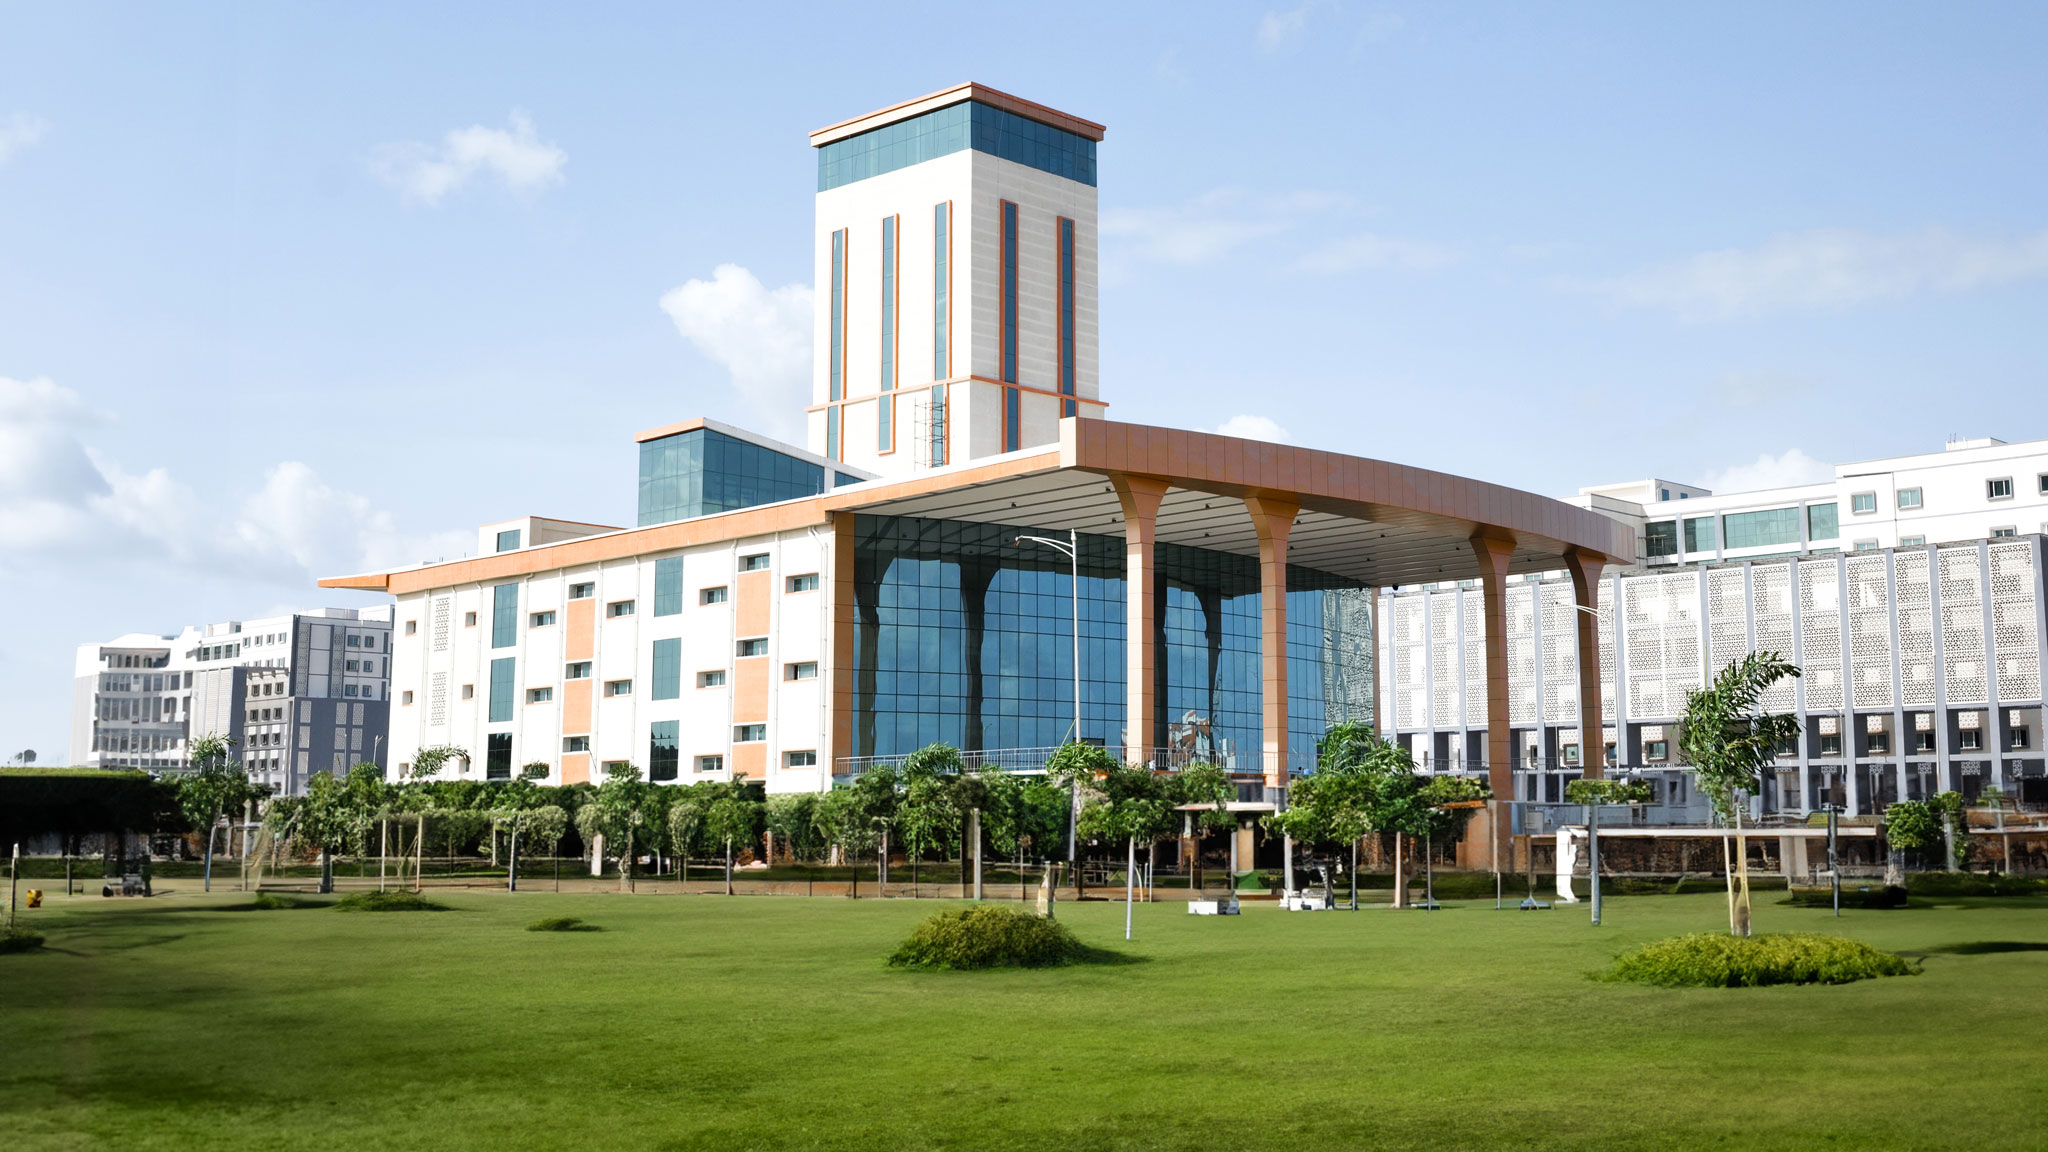
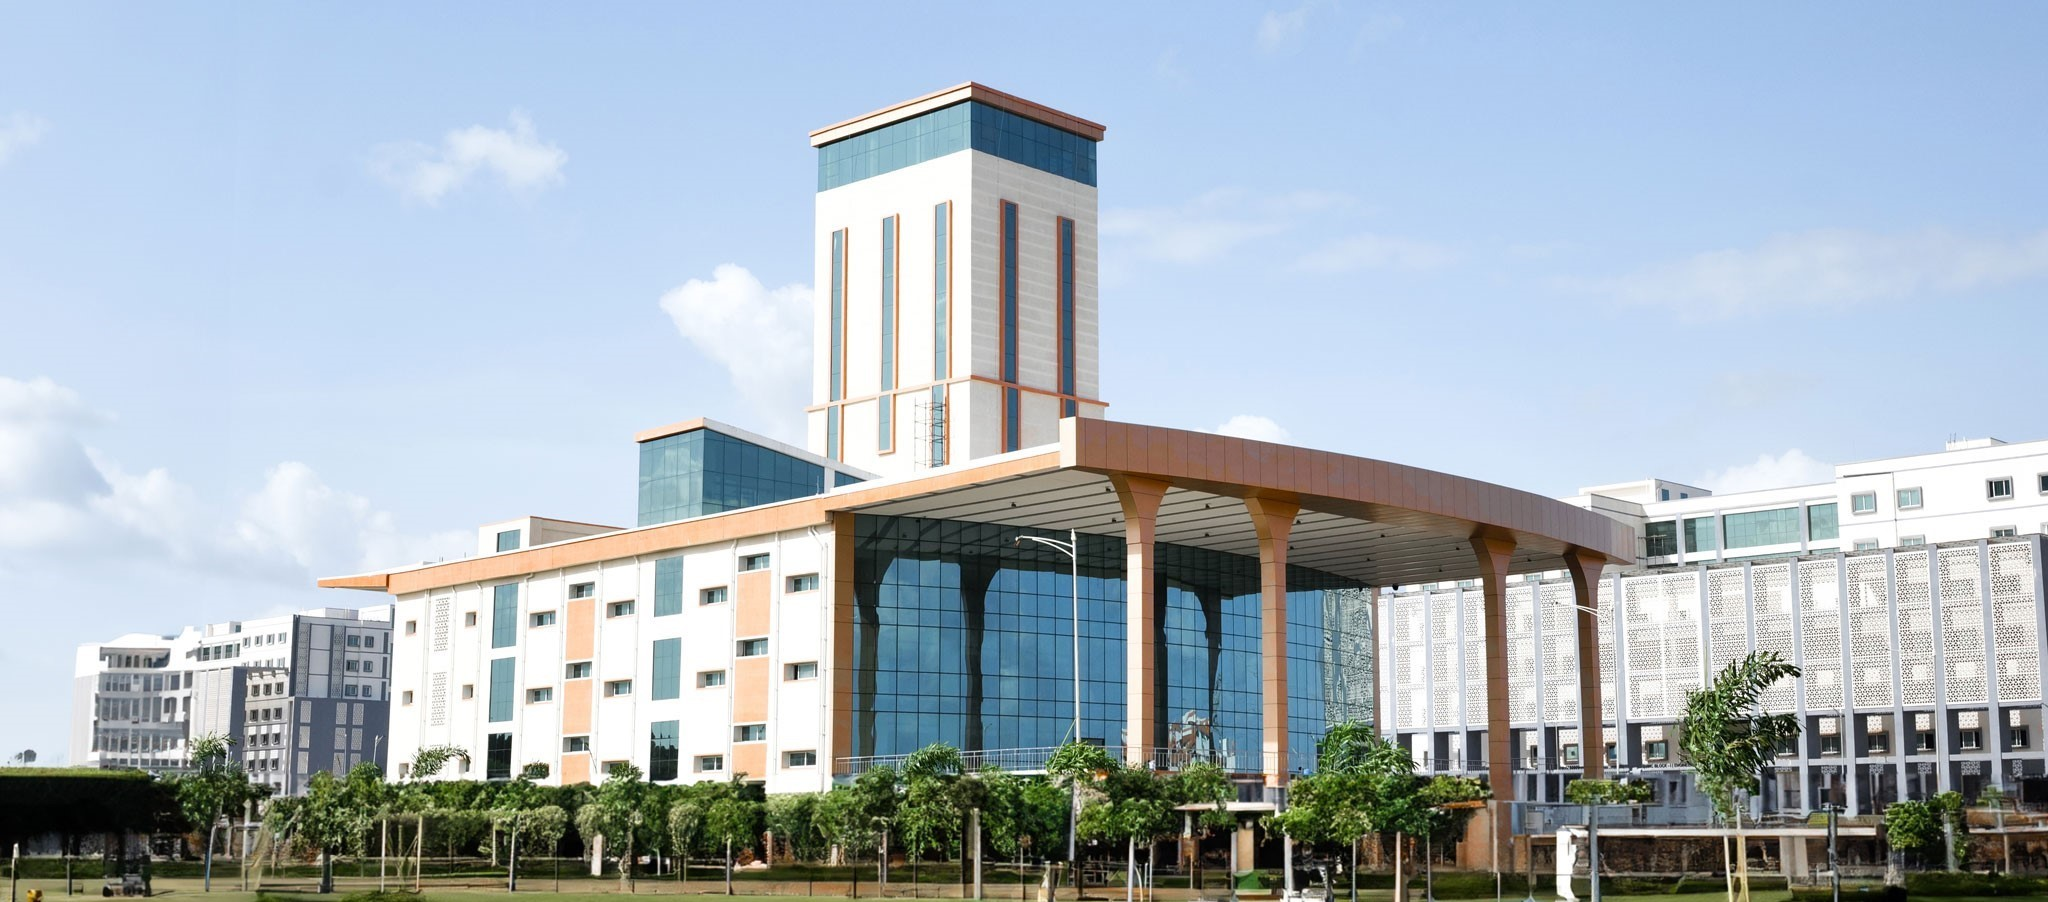
Beautified Carousel and changed Login background

diff --git a/frontend/src/Styles/ImgSlide.css b/frontend/src/Styles/ImgSlide.css
@@ -1,10 +1,13 @@
+.carousel-item {
+  height: 100vh; /* Adjust the height as needed */
+  overflow: hidden; /* Ensure content outside the fixed height is hidden */
+}
+
 .carousel-item img {
-  width: 100vw; 
-  height: 80vh; 
-  margin-top: 60px;
-  /* border-left:2vh solid rgb(107, 34, 155); */
-  /* border-right:2vh solid rgb(107, 34, 155); */
-  /* border:1vh solid rgb(122, 19, 163); */
+  width: 100%;
+  height: 100%;
+  object-fit: cover;
+  object-position: center;
 }
 .carousel-caption{
   background-color: rgba(73, 71, 71, 0.3);

diff --git a/frontend/src/Styles/StudentLogin.css b/frontend/src/Styles/StudentLogin.css
@@ -38,10 +38,10 @@ body {
   width: 200%;
   height: 100%;
   
-  background: url('https://images.unsplash.com/photo-1623461487986-9400110de28e?w=500&auto=format&fit=crop&q=60&ixlib=rb-4.0.3&ixid=M3wxMjA3fDB8MHxwaG90by1yZWxhdGVkfDE4fHx8ZW58MHx8fHx8');
+  background: url("./WhatsApp Image 2024-07-10 at 3.00.47 PM.jpeg");
   background-size:cover;
   background-position: center;
-  backdrop-filter: brightness(0.5)opacity(0.7);
+  backdrop-filter: brightness(0.7);
   color:white;
   border-radius: 20px;
   padding: 20px;

diff --git a/frontend/src/components/ImgSlide.js b/frontend/src/components/ImgSlide.js
@@ -16,9 +16,9 @@ function ImgSlide() {
     
 
     if (currentTime >= 9 && currentTime <= 18) {
-      setLibraryStatus('Library is currently open ( open from 9am to 6pm)');
+      setLibraryStatus('Library is currently open (open from 9 am to 6 pm)');
     } else {
-      setLibraryStatus('Library is currently closed (open from 9am to 6pm )');
+      setLibraryStatus('Library is currently closed (open from 9 am to 6 pm)');
     }
   }, [new Date().getHours()]);
 

diff --git a/frontend/src/Styles/StudentSignup.css b/frontend/src/Styles/StudentSignup.css
@@ -36,7 +36,7 @@
   .studentsignup {
     width: 100%;
     height: 100%; 
-    background: url('https://images.unsplash.com/photo-1623461487986-9400110de28e?w=500&auto=format&fit=crop&q=60&ixlib=rb-4.0.3&ixid=M3wxMjA3fDB8MHxwaG90by1yZWxhdGVkfDE4fHx8ZW58MHx8fHx8');
+    background: url("./WhatsApp Image 2024-07-10 at 3.00.47 PM.jpeg");
     background-size: cover;
     background-position: center;
     backdrop-filter: brightness(0.5) opacity(0.7);
